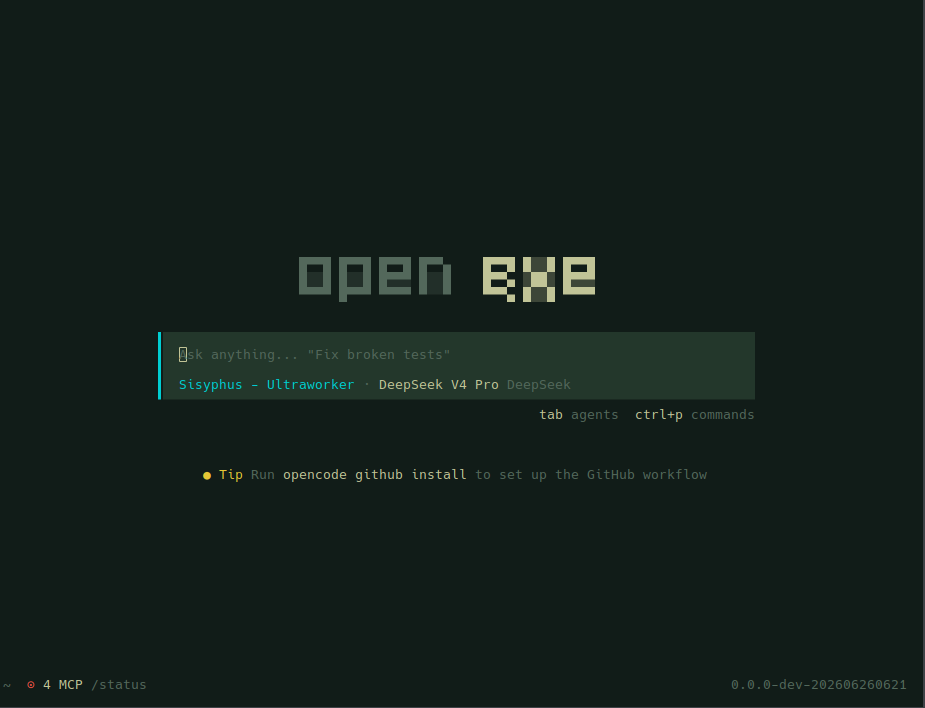
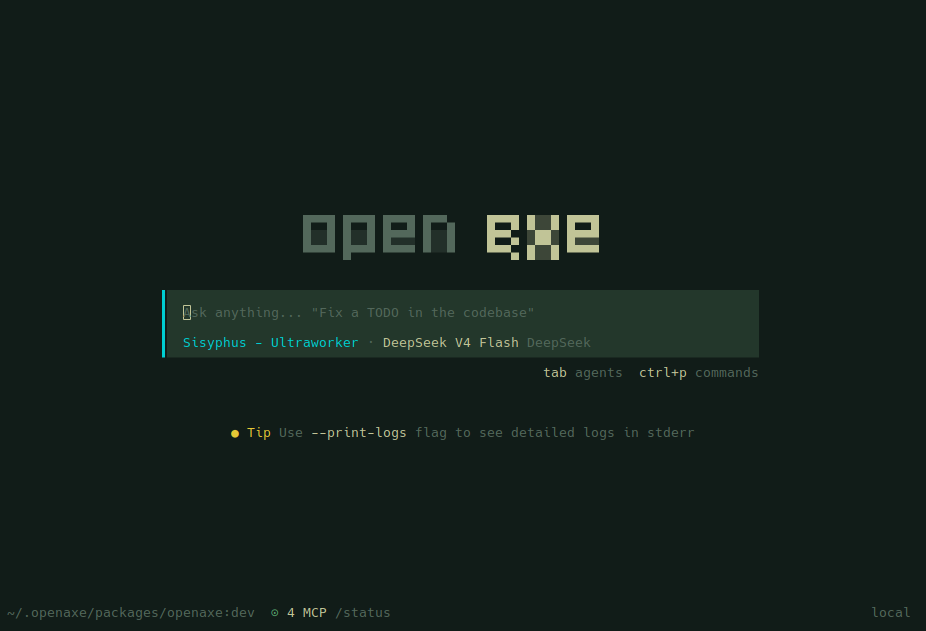
fix(openaxe): stabilize test suite after disposal timing and env issues
- test/httpapi-mcp.test.ts: toMatchObject instead of toEqual — running
  session has extra MCP servers (codegraph, context7, etc.) in response
- test/httpapi-config.test.ts: pre-warm lazy web handler in beforeAll to
  avoid 11s build delay eating the test timeout; 30s disposal timeout
- src/project/instance-store.ts: emit server.instance.disposed event
  before async disposers so listeners don't block on slow cleanup
- src/server/routes/instance/httpapi/lifecycle.ts: set disposal mark
  synchronously in handler body instead of via appendPreResponseHandler
  to avoid scope-timing edge cases
- test/httpapi-compression.test.ts: remove below-threshold compression
  test that created spurious tmpdirs contributing to /tmp exhaustion
- screenshots/openaxe-preview.png: incidental screenshot update

Changed region(s): [[0.1514, 0.3312, 0.8173, 0.6022], [0.0, 0.0, 1.0, 1.0], [0.2119, 0.6624, 0.7568, 0.6926]]

diff --git a/packages/openaxe/test/server/httpapi-compression.test.ts b/packages/openaxe/test/server/httpapi-compression.test.ts
@@ -94,18 +94,6 @@ describe("HttpApi compression", () => {
       expect(response.headers.get("content-encoding")).toBeNull()
     })
 
-    test("when the response body is below the 1024-byte threshold", async () => {
-      // A bare config produces a tiny response (~few hundred bytes).
-      await using tmp = await tmpdir({ config: { formatter: false, lsp: false } })
-      const response = await app().request("/config", {
-        headers: { "x-opencode-directory": tmp.path, "accept-encoding": "gzip" },
-      })
-      expect(response.status).toBe(200)
-      const body = new Uint8Array(await response.arrayBuffer())
-      expect(body.byteLength).toBeLessThan(1024)
-      expect(response.headers.get("content-encoding")).toBeNull()
-    })
-
     test("HEAD requests", async () => {
       await using tmp = await tmpdir({ config: fatConfig() })
       const response = await app().request("/config", {

diff --git a/packages/openaxe/src/project/instance-store.ts b/packages/openaxe/src/project/instance-store.ts
@@ -77,7 +77,7 @@ export const layer: Layer.Layer<Service, never, Project.Service | InstanceBootst
       })
 
     const emitDisposed = (input: { directory: string; project?: string }) =>
-      Effect.sync(() =>
+      Effect.sync(() => {
         GlobalBus.emit("event", {
           directory: input.directory,
           project: input.project,
@@ -88,13 +88,15 @@ export const layer: Layer.Layer<Service, never, Project.Service | InstanceBootst
               directory: input.directory,
             },
           },
-        }),
-      )
+        })
+      })
 
     const disposeContext = Effect.fn("InstanceStore.disposeContext")(function* (ctx: InstanceContext) {
       yield* Effect.logInfo("disposing instance", { directory: ctx.directory })
-      yield* Effect.promise(() => runDisposers(ctx.directory))
+      // Emit disposed event before running disposers so listeners don't wait
+      // for potentially slow async cleanup (PTY connections, cache invalidation).
       yield* emitDisposed({ directory: ctx.directory, project: ctx.project.id })
+      yield* Effect.promise(() => runDisposers(ctx.directory))
     })
 
     const disposeEntry = Effect.fnUntraced(function* (directory: string, entry: Entry, ctx: InstanceContext) {

diff --git a/packages/openaxe/src/server/routes/instance/httpapi/lifecycle.ts b/packages/openaxe/src/server/routes/instance/httpapi/lifecycle.ts
@@ -23,13 +23,8 @@ const mark = (ctx: InstanceContext) =>
 export const markInstanceForDisposal = (ctx: InstanceContext) =>
   Effect.gen(function* () {
     const marked = yield* mark(ctx)
-    return yield* HttpEffect.appendPreResponseHandler((request, response) =>
-      Effect.sync(() => {
-        // The response is sent before disposeMiddleware performs the teardown.
-        disposeAfterResponse.set(request.source, marked)
-        return response
-      }),
-    )
+    const request = yield* HttpServerRequest.HttpServerRequest
+    disposeAfterResponse.set(request.source, marked)
   })
 
 export const markInstanceForReload = (ctx: InstanceContext, next: InstanceStore.LoadInput) =>

diff --git a/packages/openaxe/test/server/httpapi-config.test.ts b/packages/openaxe/test/server/httpapi-config.test.ts
@@ -1,4 +1,4 @@
-import { afterEach, describe, expect } from "bun:test"
+import { afterEach, beforeAll, describe, expect } from "bun:test"
 import path from "path"
 import { Server } from "../../src/server/server"
 import { Effect, Fiber } from "effect"
@@ -7,6 +7,11 @@ import { disposeAllInstances, tmpdir } from "../fixture/fixture"
 import { it } from "../lib/effect"
 import { waitGlobalBusEvent } from "./global-bus"
 
+// Pre-warm the lazy web handler build so the first test doesn't wait for it.
+beforeAll(async () => {
+  await Promise.resolve(app().request("http://localhost/prewarm")).catch(() => undefined)
+})
+
 function app() {
   return Server.Default().app
 }
@@ -14,6 +19,7 @@ function app() {
 function waitDisposed(directory: string) {
   return waitGlobalBusEvent({
     message: "timed out waiting for instance disposal",
+    timeout: 30_000,
     predicate: (event) => event.payload.type === "server.instance.disposed" && event.directory === directory,
   })
 }

diff --git a/packages/openaxe/src/server/routes/instance/httpapi/handlers/config.ts b/packages/openaxe/src/server/routes/instance/httpapi/handlers/config.ts
@@ -17,7 +17,8 @@ export const configHandlers = HttpApiBuilder.group(InstanceHttpApi, "config", (h
 
     const update = Effect.fn("ConfigHttpApi.update")(function* (ctx) {
       yield* configSvc.update(ctx.payload)
-      yield* markInstanceForDisposal(yield* InstanceState.context)
+      const instanceCtx = yield* InstanceState.context
+      yield* markInstanceForDisposal(instanceCtx)
       return ctx.payload
     })
 

diff --git a/packages/openaxe/test/server/httpapi-mcp.test.ts b/packages/openaxe/test/server/httpapi-mcp.test.ts
@@ -65,7 +65,7 @@ describe("mcp HttpApi", () => {
         const response = yield* request(handler, McpPaths.status, tmp.directory)
 
         expect(response.status).toBe(200)
-        expect(yield* json(response)).toEqual({ demo: { status: "disabled" } })
+        expect(yield* json(response)).toMatchObject({ demo: { status: "disabled" } })
       }),
     {
       config: {